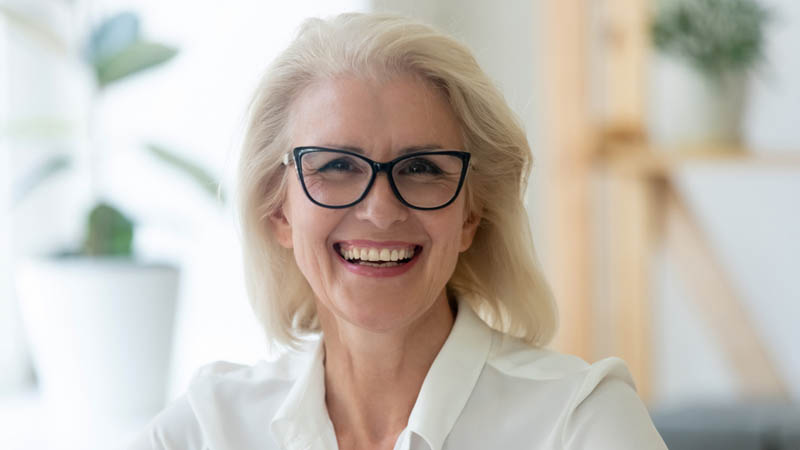
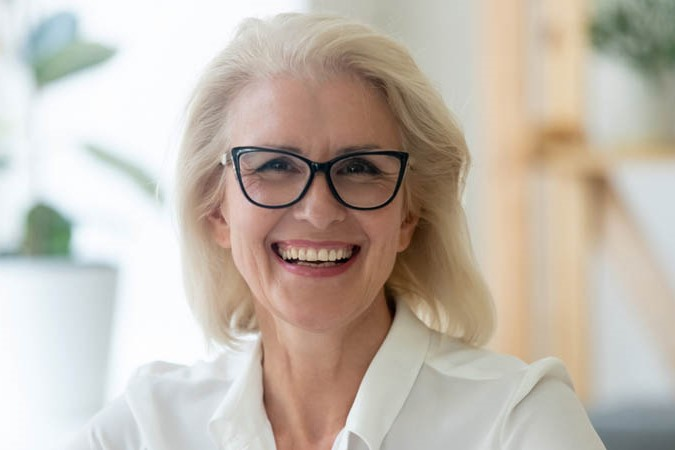
fixed image sizes

diff --git a/about.html b/about.html
@@ -12,6 +12,8 @@
     <link href="https://fonts.googleapis.com/css2?family=Rajdhani:wght@300&display=swap" rel="stylesheet">
     <link href="https://fonts.googleapis.com/css2?family=Orbitron&display=swap" rel="stylesheet">
     <link href="https://fonts.googleapis.com/css2?family=Lobster&display=swap" rel="stylesheet">
+    <link href="https://fonts.googleapis.com/css2?family=Monda&display=swap" rel="stylesheet">
+    <link href="https://fonts.googleapis.com/css2?family=Montserrat&display=swap" rel="stylesheet">
     <script src="vendor/jquery-3.6.0.min.js"></script>
 </head>
 <body>
@@ -19,7 +21,7 @@
     <header>
         <div class="heroContent">
             <h1 style="font-size: 72px; font-family: 'Lobster', cursive;">Good Gums</h1>
-            <p style="margin: -20px 0 25px 0;">Plant Nursery</p>
+            <h2 style="margin: 0 -20px 25px 0;">Plant Nursery</h2>
             <button class="">Browse Our Plants</button>
         </div>
     </header>
@@ -32,7 +34,7 @@
         </div>
     </div>
 
-    <h1 style="font-family: 'Orbitron', sans-serif; font-size: 48px; text-align: center; ">About Us</h1>
+    <h1 style="font-family: 'Montserrat', sans-serif; font-size: 48px; text-align: center; ">About Us</h1>
 
 
     <div style="display: flex; width: 750px; margin: auto;">
@@ -45,7 +47,7 @@
 
     <hr />
 
-    <h2 style="font-family: 'Orbitron', sans-serif; font-size: 32px; text-align: center; ">Our Team</h2>
+    <h2 style="font-family: 'Montserrat', sans-serif; font-size: 32px; text-align: center; ">Our Team</h2>
     <!-- Team Profile -->
     <p style="text-align: center;">Please click on a team member, to learn more about them!</p>
     <div class="team-container">
@@ -53,8 +55,7 @@
         <div id="daisy" class="member">
             <div class="member-portraits">
                 <img src="images/Staff/Daisy/shutterstock_1743340496_1.jpg" />
-
-                <p>Daisy<br />Role</p>
+                Daisy
             </div>
         </div>
 
@@ -62,10 +63,7 @@
         <div id="ivy" class="member">
             <div class="member-portraits">
                 <img src="images/Staff/Ivy/shutterstock_1498236446_1.jpg" />
-
-                <div class="polaroid">
-                    <p>Ivy<br />Role</p>
-                </div>
+                Ivy             
             </div>
         </div>
 
@@ -73,8 +71,7 @@
         <div id="jarrod" class="member">
             <div class="member-portraits">
                 <img id="jarrod" src="images/Staff/Jarred/shutterstock_1714666150_1.jpg" />
-
-                <p>Jarrad<br />Role</p>
+                Jarrad
             </div>
 
         </div>
@@ -83,7 +80,7 @@
         <div id="ren" class="member">
             <div class="member-portraits">
                 <img src="images/Staff/Ren/shutterstock_1667874196_1.jpg" />
-                <p>Ren<br />Role</p>
+                Ren
             </div>
         </div>
 
@@ -120,7 +117,7 @@
     <hr />
 
     <div class="history">
-        <h2 style="font-family: 'Orbitron', sans-serif; font-size: 32px; text-align: center; ">Our History</h2>
+        <h2 style="font-family: 'Montserrat', sans-serif; font-size: 32px; text-align: center; ">Our History</h2>
         <p></p>
     </div>
 

diff --git a/style.css b/style.css
@@ -1,10 +1,14 @@
 body, html {
-    font-family: Arial;
+    font-family: 'Monda', sans-serif;
     margin: 0;
     height: 100%;
 }
 
 /* Hero Banner */
+h1, h2, h3, h4, h5 {
+    font-weight: 700;
+}
+
 
 header {
     width: 100%;
@@ -14,6 +18,7 @@ header {
     background-repeat: no-repeat;
     background-size: cover;
     position: relative;
+
 }
 
 .heroContent {
@@ -55,13 +60,15 @@ header {
     margin: auto;
     border-radius: 5px;
     box-shadow: 0 4px 8px 0 rgba(0, 0, 0, 0.2), 0 6px 20px 0 rgba(0, 0, 0, 0.19);
+    font-family: 'Monda', sans-serif;
 }
 
 .navbar a {
     color: white;
     padding: 14px 20px;
     text-decoration: none;
-    text-align: center;  
+    text-align: center;
+
 }
 
 .navbar a:hover {
@@ -107,18 +114,22 @@ header {
 
 #jarrodDesc {
     display: none;
+    font-family: 'Monda', sans-serif;
 }
 
 #daisyDesc {
     display: none;
+    font-family: 'Monda', sans-serif;
 }
 
 #ivyDesc {
     display: none;
+    font-family: 'Monda', sans-serif;
 }
 
 #renDesc {
     display: none;
+    font-family: 'Monda', sans-serif;
 }
 
 
